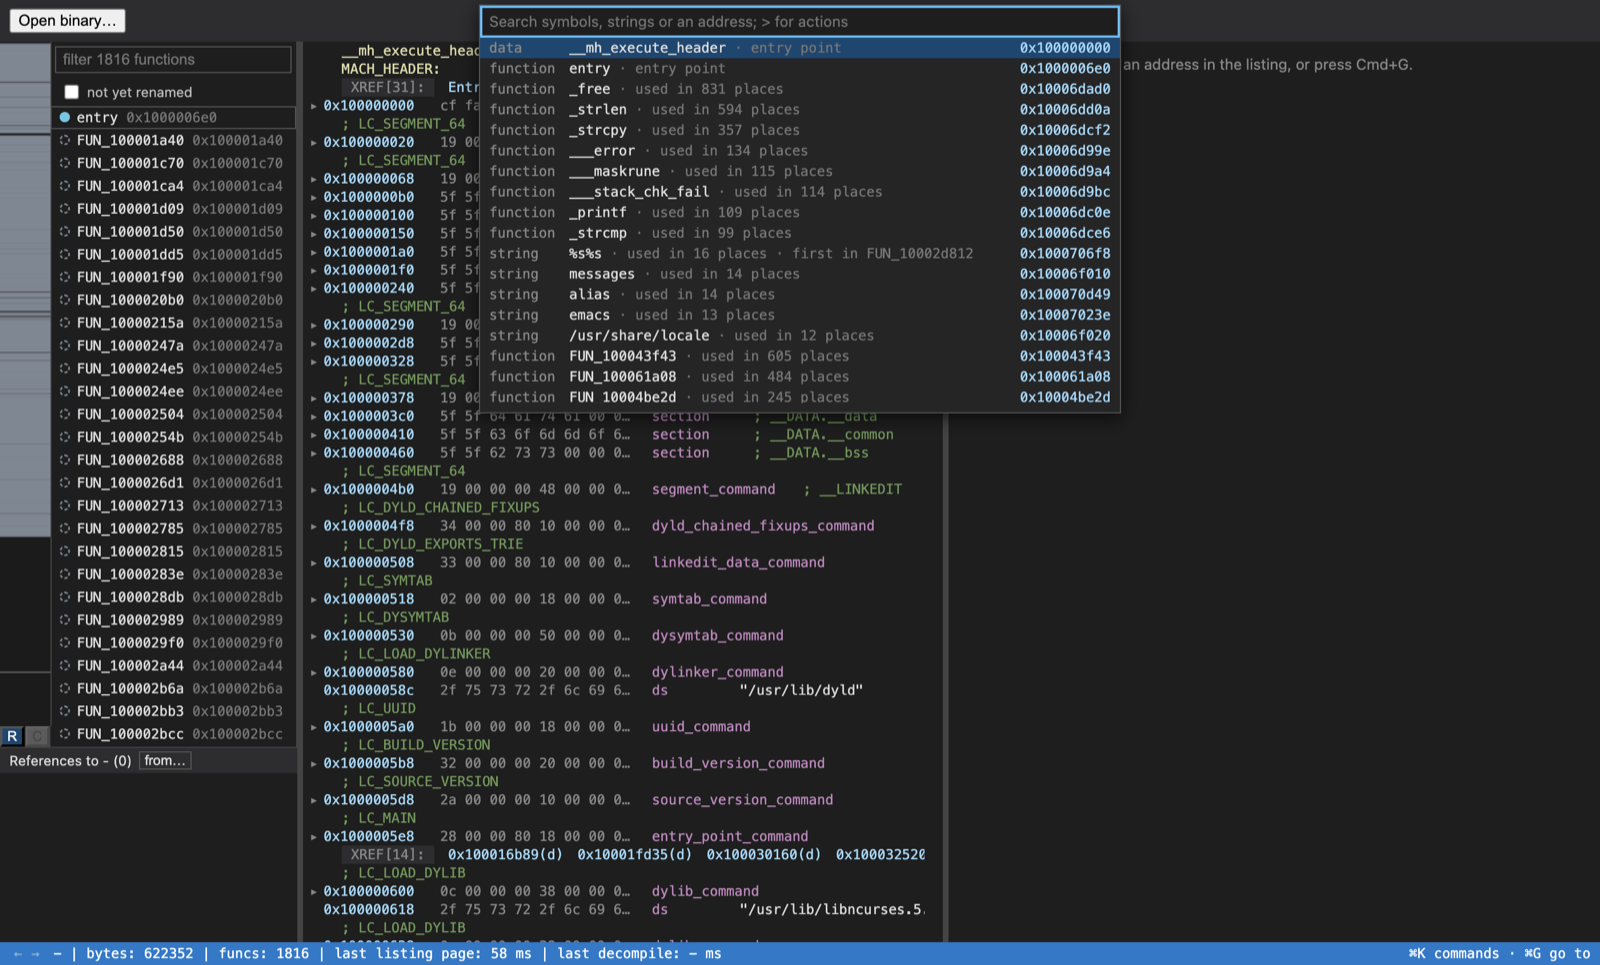
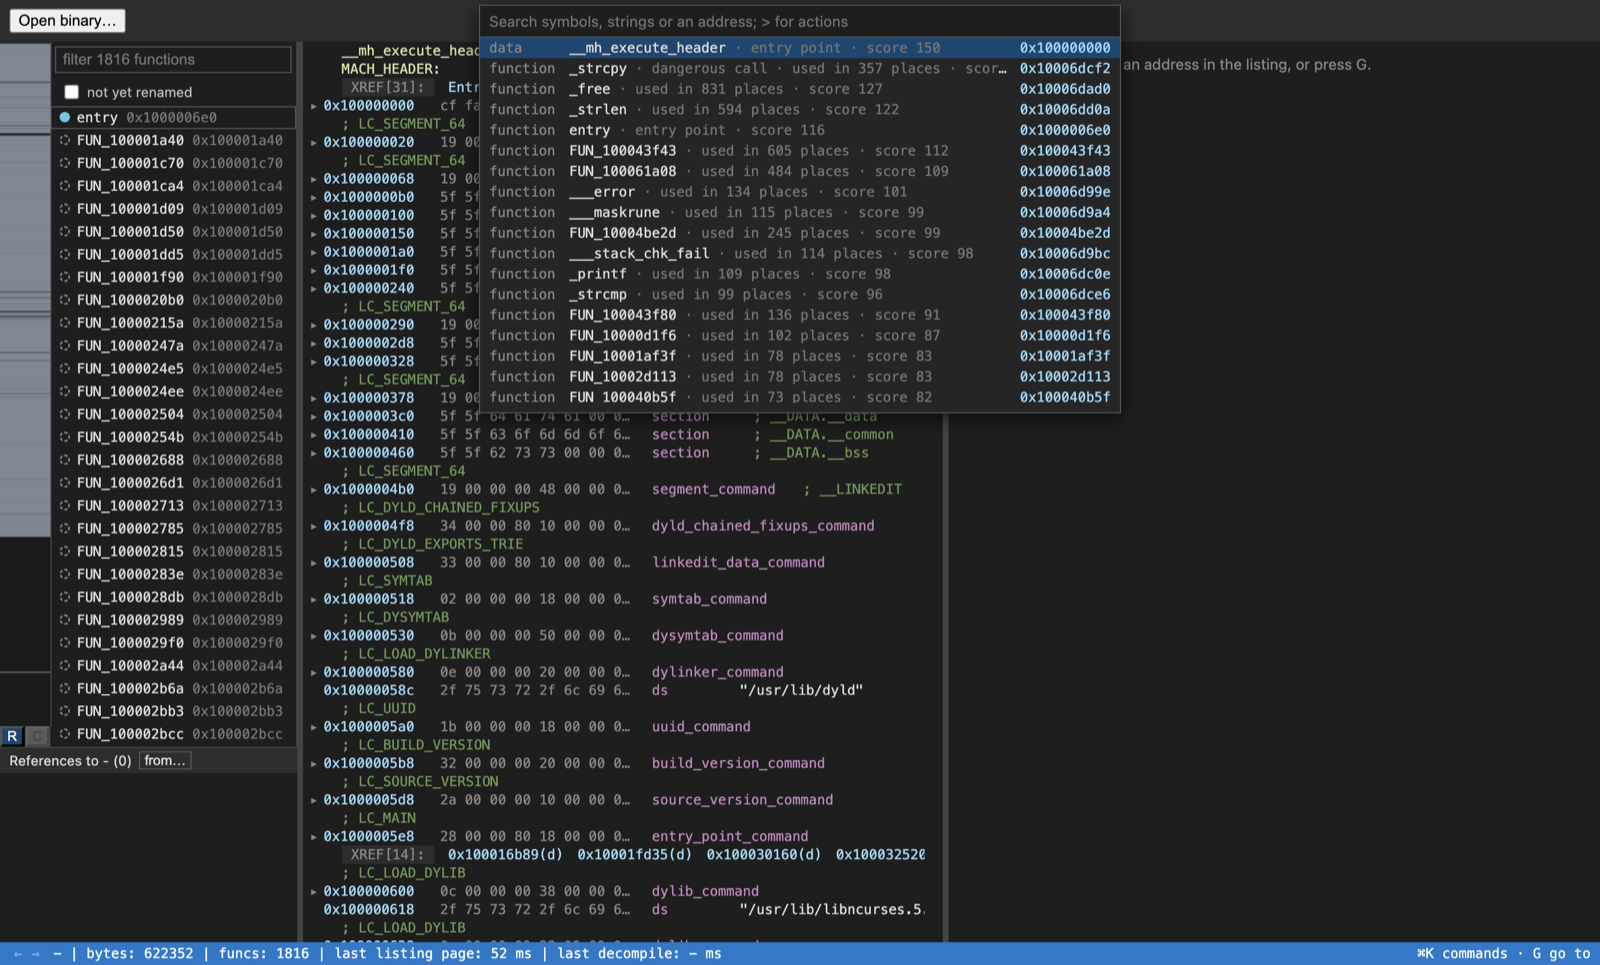
Screenshots retaken with the new key hints and lead scores; shot-graph uses the graph command
The command bar rows stay on one line.

diff --git a/app/src/renderer/style.css b/app/src/renderer/style.css
@@ -62,7 +62,7 @@ body { background: #1e1e1e; color: #ddd; font: 13px system-ui, sans-serif; }
 .search input { width: 100%; box-sizing: border-box; background: #1e1e1e; color: #ddd; border: 0; border-bottom: 1px solid #555; padding: 6px 8px; font: inherit; }
 .search #sym-list { max-height: 320px; overflow: auto; }
 .hit { display: flex; gap: 10px; padding: 2px 8px; cursor: pointer; font: 12px ui-monospace, Menlo, monospace; }
-.hit.cur { background: #094771; } .hit .k { width: 60px; color: #888; } .hit .n { flex: 1; overflow: hidden; text-overflow: ellipsis; } .hit .a { color: #9cdcfe; }
+.hit.cur { background: #094771; } .hit .k { width: 60px; color: #888; } .hit .n { flex: 1; white-space: nowrap; overflow: hidden; text-overflow: ellipsis; } .hit .a { color: #9cdcfe; }
 .msg { padding: 4px 8px; color: #888; }
 .xrefs { height: 170px; flex: none; display: flex; flex-direction: column; border-top: 1px solid #444; }
 .empty button, .empty .btn { margin-left: 8px; }

diff --git a/app/src/renderer/autotest/autotestShots.ts b/app/src/renderer/autotest/autotestShots.ts
@@ -34,7 +34,7 @@ async function graphShot(fl: { name: string; entry: string; size: number }[], c:
   need(g.blocks.length >= 3, "function with at least three blocks");
   await c.select(f.entry);
   await waitFor(() => document.querySelector(".editor")?.getBoundingClientRect().height, 10000, "decompiler visible");
-  press(document.body, " ");
+  c.command({ type: "graph" }); // the graph key is a menu accelerator
   const nodes = () => [...document.querySelectorAll<SVGGElement>('.graph g[role="button"]')];
   await waitFor(() => nodes().length === g.blocks.length, 15000, "one node per block");
   need(nodes().some((n) => n.getAttribute("aria-current")), "the block at the cursor is highlighted");
